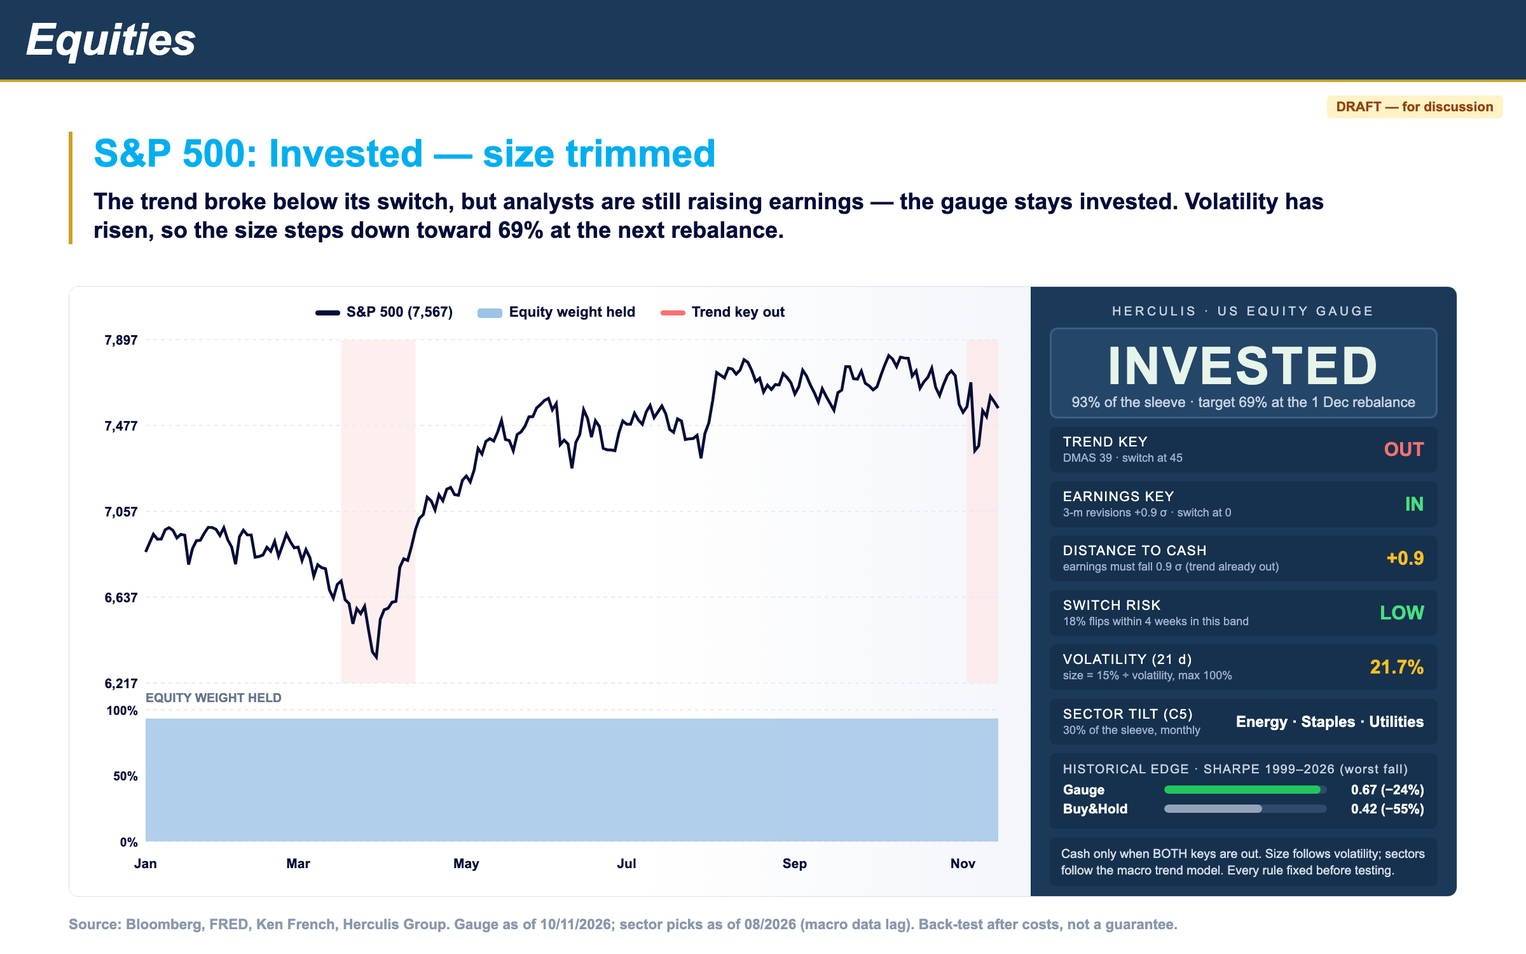
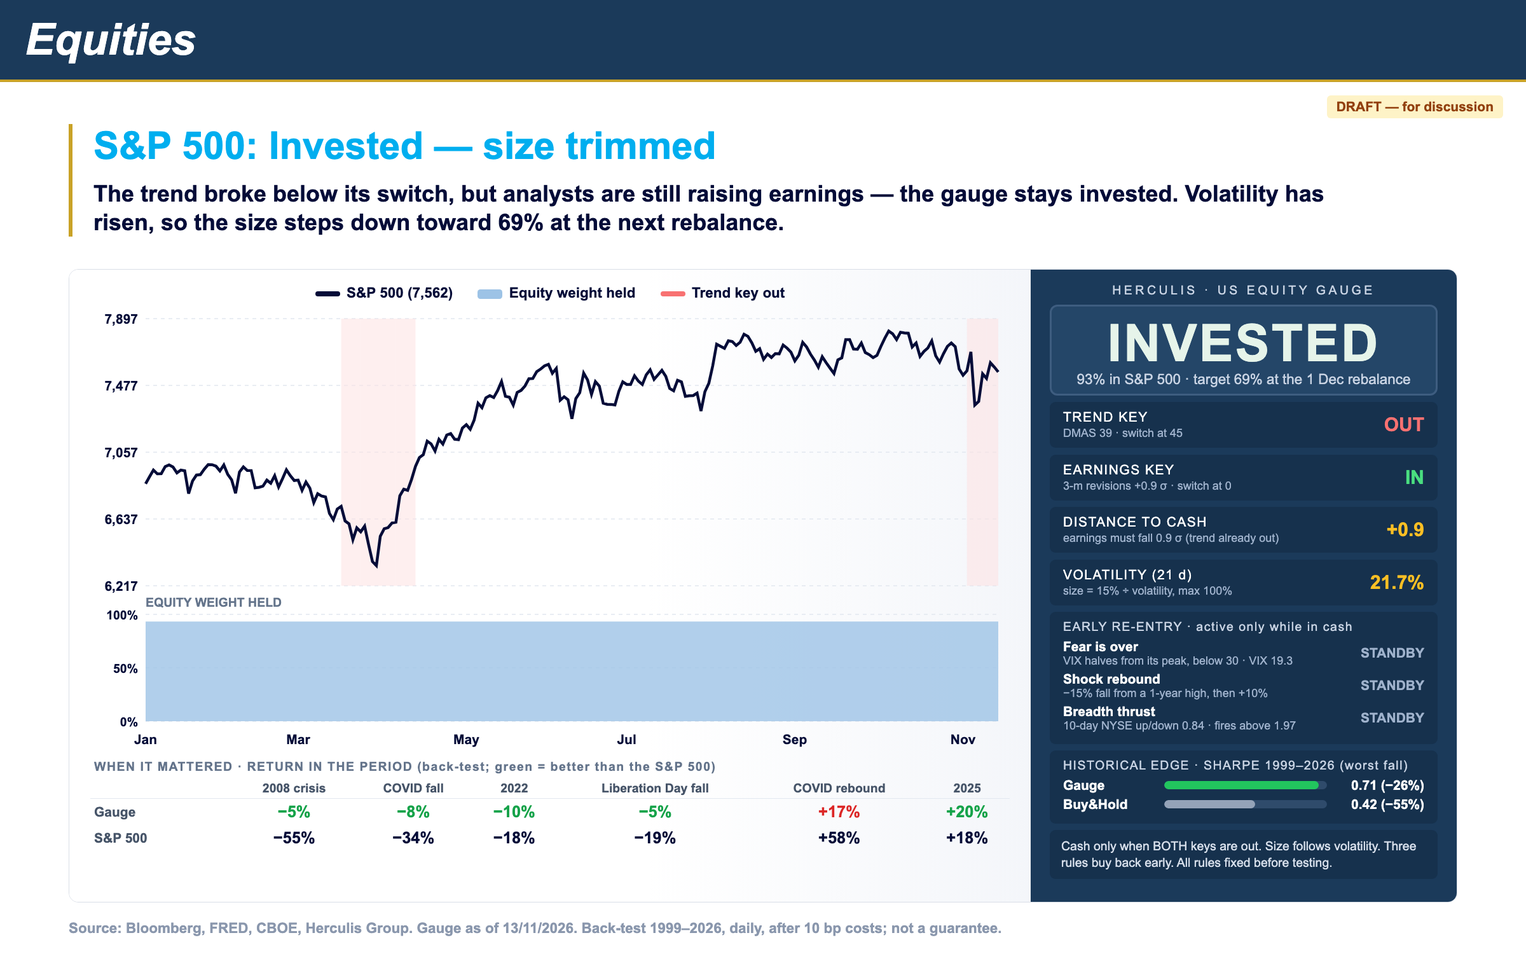
mockups: redraft gauge slide for the core (no sector tilt; F, S-live, B re-entry status; results when it mattered)

diff --git a/mockups/us_gauge_slide.html b/mockups/us_gauge_slide.html
@@ -1,18 +1,25 @@
 <!doctype html><html><head><meta charset="utf-8"><title>US Equity Gauge</title>
 <style>
-:root{--navy:#1B3A5A;--ink:#040C38;--sky:#00AEEF;--gold:#C9A227;--green:#16A34A;--red:#DC2626;--amber:#F59E0B;--grey:#94A3B8}
+:root{--navy:#1B3A5A;--ink:#040C38;--sky:#00AEEF;--gold:#C9A227;--green:#16A34A;--red:#DC2626}
 *{box-sizing:border-box;margin:0;padding:0}
 body{width:1600px;height:1000px;font-family:Calibri,'Segoe UI',Arial,sans-serif;background:#fff;color:var(--ink);position:relative;overflow:hidden}
 .top{height:86px;background:var(--navy);border-bottom:3px solid var(--gold);display:flex;align-items:center;padding-left:26px}
 .top h1{color:#fff;font-style:italic;font-size:46px;font-weight:700}
-.head{margin:52px 0 0 72px;border-left:4px solid var(--gold);padding-left:22px}
+.head{margin:44px 0 0 72px;border-left:4px solid var(--gold);padding-left:22px}
 .head h2{color:var(--sky);font-size:40px;font-weight:700}
 .head p{font-size:24px;font-weight:700;margin-top:12px;max-width:1300px;line-height:1.25}
-.card{position:absolute;left:72px;top:300px;width:1456px;height:640px;border:1px solid #D9DEE7;border-radius:10px;overflow:hidden;display:flex}
-.chart{flex:1;padding:18px 22px;background:linear-gradient(90deg,#fff 60%,#F4F6FA)}
-.legend{display:flex;gap:26px;justify-content:center;font-size:15px;font-weight:700;margin-bottom:6px}
+.card{position:absolute;left:72px;top:282px;width:1456px;height:664px;border:1px solid #D9DEE7;border-radius:10px;overflow:hidden;display:flex}
+.chart{flex:1;padding:16px 22px;background:linear-gradient(90deg,#fff 60%,#F4F6FA);display:flex;flex-direction:column}
+.legend{display:flex;gap:26px;justify-content:center;font-size:15px;font-weight:700;margin-bottom:4px}
 .legend i{display:inline-block;width:26px;height:5px;border-radius:3px;vertical-align:middle;margin-right:7px}
-.panel{width:470px;background:var(--navy);color:#fff;padding:18px 20px;display:flex;flex-direction:column;gap:9px}
+.mat{margin-top:6px}
+.mat .t{font-size:13px;font-weight:700;color:#64748B;letter-spacing:1px;margin:0 0 4px 4px}
+.mat table{width:100%;border-collapse:collapse;font-size:15px;font-weight:700}
+.mat th{font-size:13px;color:#475569;font-weight:700;padding:3px 4px;text-align:center;border-bottom:1px solid #E2E8F0}
+.mat td{text-align:center;padding:4px;font-size:17px}
+.mat td.l{text-align:left;font-size:14px;color:#475569;width:150px}
+.mat td.g{color:var(--green)}.mat td.r{color:var(--red)}
+.panel{width:470px;background:var(--navy);color:#fff;padding:14px 20px;display:flex;flex-direction:column;gap:7px}
 .ptitle{text-align:center;letter-spacing:3px;font-size:13px;color:#C8D3E3}
 .state{border:2px solid #3E5D80;border-radius:8px;background:#244668;text-align:center;padding:8px 0 6px}
 .state b{font-size:54px;letter-spacing:2px;color:#E6F4EA}
@@ -20,14 +27,16 @@ body{width:1600px;height:1000px;font-family:Calibri,'Segoe UI',Arial,sans-serif;
 .row{background:#16314D;border-radius:6px;padding:8px 14px;display:flex;justify-content:space-between;align-items:center;font-size:14px;letter-spacing:1px}
 .row .l small{display:block;letter-spacing:0;color:#9FB2CC;font-size:12px;margin-top:2px}
 .row .r{font-weight:700;font-size:20px;letter-spacing:0}
-.in{color:#4ADE80}.out{color:#F87171}.mid{color:#FBBF24}
-.edge{background:#16314D;border-radius:6px;padding:9px 14px;font-size:13px}
-.edge .t{letter-spacing:1px;color:#C8D3E3;margin-bottom:6px}
+.in{color:#4ADE80}.out{color:#F87171}.mid{color:#FBBF24}.sb{color:#9FB2CC}
+.box{background:#16314D;border-radius:6px;padding:8px 14px;font-size:13px}
+.box .t{letter-spacing:1px;color:#C8D3E3;margin-bottom:5px}
+.re{display:flex;justify-content:space-between;align-items:center;margin:4px 0;font-size:14px;font-weight:700}
+.re small{display:block;font-weight:400;color:#9FB2CC;font-size:12px}
 .bar{display:flex;align-items:center;gap:10px;margin:4px 0;font-weight:700;font-size:14px}
 .bar .n{width:96px}.bar .tr{flex:1;height:9px;background:#2F4B6B;border-radius:5px;overflow:hidden}
-.bar .f{height:100%;border-radius:5px}.bar .v{width:92px;text-align:right}
+.bar .f{height:100%;border-radius:5px;display:block}.bar .v{width:92px;text-align:right}
 .note{font-size:13px;color:#D6DEEA;line-height:1.35;background:#16314D;border-radius:6px;padding:8px 12px}
-.src{position:absolute;left:72px;bottom:22px;font-size:15px;color:#8A97AD;font-weight:700}
+.src{position:absolute;left:72px;bottom:18px;font-size:15px;color:#8A97AD;font-weight:700}
 .draft{position:absolute;right:24px;top:100px;background:#FEF3C7;color:#92400E;font-weight:700;font-size:14px;padding:4px 10px;border-radius:4px}
 svg text{font-family:Calibri,'Segoe UI',Arial,sans-serif}
 </style></head><body>
@@ -37,43 +46,45 @@ svg text{font-family:Calibri,'Segoe UI',Arial,sans-serif}
 <p>The trend broke below its switch, but analysts are still raising earnings — the gauge stays invested. Volatility has risen, so the size steps down toward 69% at the next rebalance.</p></div>
 <div class="card">
  <div class="chart">
-  <div class="legend"><span><i style="background:var(--ink)"></i>S&amp;P 500 (7,567)</span><span><i style="background:#9DC3E6;height:10px"></i>Equity weight held</span><span><i style="background:#F87171"></i>Trend key out</span></div>
-  <svg id="c" width="964" height="580"></svg>
+  <div class="legend"><span><i style="background:var(--ink)"></i>S&amp;P 500 (7,562)</span><span><i style="background:#9DC3E6;height:10px"></i>Equity weight held</span><span><i style="background:#F87171"></i>Trend key out</span></div>
+  <svg id="c" width="964" height="470"></svg>
+  <div class="mat"><div class="t">WHEN IT MATTERED · RETURN IN THE PERIOD (back-test; green = better than the S&amp;P 500)</div>
+   <table><tr><th></th><th>2008 crisis</th><th>COVID fall</th><th>2022</th><th>Liberation Day fall</th><th>COVID rebound</th><th>2025</th></tr><tr><td class="l">Gauge</td><td class="g">−5%</td><td class="g">−8%</td><td class="g">−10%</td><td class="g">−5%</td><td class="r">+17%</td><td class="g">+20%</td></tr><tr><td class="l">S&amp;P 500</td><td>−55%</td><td>−34%</td><td>−18%</td><td>−19%</td><td>+58%</td><td>+18%</td></tr></table></div>
  </div>
  <div class="panel">
   <div class="ptitle">HERCULIS · US EQUITY GAUGE</div>
-  <div class="state"><b>INVESTED</b><span>93% of the sleeve · target 69% at the 1 Dec rebalance</span></div>
+  <div class="state"><b>INVESTED</b><span>93% in S&amp;P 500 · target 69% at the 1 Dec rebalance</span></div>
   <div class="row"><div class="l">TREND KEY<small>DMAS 39 · switch at 45</small></div><div class="r out">OUT</div></div>
   <div class="row"><div class="l">EARNINGS KEY<small>3-m revisions +0.9 σ · switch at 0</small></div><div class="r in">IN</div></div>
   <div class="row"><div class="l">DISTANCE TO CASH<small>earnings must fall 0.9 σ (trend already out)</small></div><div class="r mid">+0.9</div></div>
-  <div class="row"><div class="l">SWITCH RISK<small>18% flips within 4 weeks in this band</small></div><div class="r in">LOW</div></div>
   <div class="row"><div class="l">VOLATILITY (21 d)<small>size = 15% ÷ volatility, max 100%</small></div><div class="r mid">21.7%</div></div>
-  <div class="row"><div class="l">SECTOR TILT (C5)<small>30% of the sleeve, monthly</small></div><div class="r" style="font-size:16px">Energy · Staples · Utilities</div></div>
-  <div class="edge"><div class="t">HISTORICAL EDGE · SHARPE 1999–2026 (worst fall)</div>
-   <div class="bar"><span class="n">Gauge</span><span class="tr"><span class="f" style="width:96%;background:#22C55E;display:block"></span></span><span class="v">0.67 (−24%)</span></div>
-   <div class="bar"><span class="n">Buy&amp;Hold</span><span class="tr"><span class="f" style="width:60%;background:#94A3B8;display:block"></span></span><span class="v">0.42 (−55%)</span></div>
+  <div class="box"><div class="t">EARLY RE-ENTRY · active only while in cash</div>
+   <div class="re"><div>Fear is over<small>VIX halves from its peak, below 30 · VIX 19.3</small></div><span class="sb">STANDBY</span></div>
+   <div class="re"><div>Shock rebound<small>−15% fall from a 1-year high, then +10%</small></div><span class="sb">STANDBY</span></div>
+   <div class="re"><div>Breadth thrust<small>10-day NYSE up/down 0.84 · fires above 1.97</small></div><span class="sb">STANDBY</span></div>
   </div>
-  <div class="note">Cash only when BOTH keys are out. Size follows volatility; sectors follow the macro trend model. Every rule fixed before testing.</div>
+  <div class="box"><div class="t">HISTORICAL EDGE · SHARPE 1999–2026 (worst fall)</div>
+   <div class="bar"><span class="n">Gauge</span><span class="tr"><span class="f" style="width:95%;background:#22C55E"></span></span><span class="v">0.71 (−26%)</span></div>
+   <div class="bar"><span class="n">Buy&amp;Hold</span><span class="tr"><span class="f" style="width:56%;background:#94A3B8"></span></span><span class="v">0.42 (−55%)</span></div>
+  </div>
+  <div class="note">Cash only when BOTH keys are out. Size follows volatility. Three rules buy back early. All rules fixed before testing.</div>
  </div>
 </div>
-<div class="src">Source: Bloomberg, FRED, Ken French, Herculis Group. Gauge as of 10/11/2026; sector picks as of 08/2026 (macro data lag). Back-test after costs, not a guarantee.</div>
+<div class="src">Source: Bloomberg, FRED, CBOE, Herculis Group. Gauge as of 13/11/2026. Back-test 1999–2026, daily, after 10 bp costs; not a guarantee.</div>
 <script>
 const D={"dates": ["2026-01-02", "2026-01-05", "2026-01-06", "2026-01-07", "2026-01-08", "2026-01-09", "2026-01-12", "2026-01-13", "2026-01-14", "2026-01-15", "2026-01-16", "2026-01-20", "2026-01-21", "2026-01-22", "2026-01-23", "2026-01-26", "2026-01-27", "2026-01-28", "2026-01-29", "2026-01-30", "2026-02-02", "2026-02-03", "2026-02-04", "2026-02-05", "2026-02-06", "2026-02-09", "2026-02-10", "2026-02-11", "2026-02-12", "2026-02-13", "2026-02-17", "2026-02-18", "2026-02-19", "2026-02-20", "2026-02-23", "2026-02-24", "2026-02-25", "2026-02-26", "2026-02-27", "2026-03-02", "2026-03-03", "2026-03-04", "2026-03-05", "2026-03-06", "2026-03-09", "2026-03-10", "2026-03-11", "2026-03-12", "2026-03-13", "2026-03-16", "2026-03-17", "2026-03-18", "2026-03-19", "2026-03-20", "2026-03-23", "2026-03-24", "2026-03-25", "2026-03-26", "2026-03-27", "2026-03-30", "2026-03-31", "2026-04-01", "2026-04-02", "2026-04-06", "2026-04-07", "2026-04-08", "2026-04-09", "2026-04-10", "2026-04-13", "2026-04-14", "2026-04-15", "2026-04-16", "2026-04-17", "2026-04-20", "2026-04-21", "2026-04-22", "2026-04-23", "2026-04-24", "2026-04-27", "2026-04-28", "2026-04-29", "2026-04-30", "2026-05-01", "2026-05-04", "2026-05-05", "2026-05-06", "2026-05-07", "2026-05-08", "2026-05-11", "2026-05-12", "2026-05-13", "2026-05-14", "2026-05-15", "2026-05-18", "2026-05-19", "2026-05-20", "2026-05-21", "2026-05-22", "2026-05-26", "2026-05-27", "2026-05-28", "2026-05-29", "2026-06-01", "2026-06-02", "2026-06-03", "2026-06-04", "2026-06-05", "2026-06-08", "2026-06-09", "2026-06-10", "2026-06-11", "2026-06-12", "2026-06-15", "2026-06-16", "2026-06-17", "2026-06-18", "2026-06-22", "2026-06-23", "2026-06-24", "2026-06-25", "2026-06-26", "2026-06-29", "2026-06-30", "2026-07-01", "2026-07-02", "2026-07-06", "2026-07-07", "2026-07-08", "2026-07-09", "2026-07-10", "2026-07-13", "2026-07-14", "2026-07-15", "2026-07-16", "2026-07-17", "2026-07-20", "2026-07-21", "2026-07-22", "2026-07-23", "2026-07-24", "2026-07-27", "2026-07-28", "2026-07-29", "2026-07-30", "2026-07-31", "2026-08-03", "2026-08-04", "2026-08-05", "2026-08-06", "2026-08-07", "2026-08-10", "2026-08-11", "2026-08-12", "2026-08-13", "2026-08-14", "2026-08-17", "2026-08-18", "2026-08-19", "2026-08-20", "2026-08-21", "2026-08-24", "2026-08-25", "2026-08-26", "2026-08-27", "2026-08-28", "2026-08-31", "2026-09-01", "2026-09-02", "2026-09-03", "2026-09-04", "2026-09-08", "2026-09-09", "2026-09-10", "2026-09-11", "2026-09-14", "2026-09-15", "2026-09-16", "2026-09-17", "2026-09-18", "2026-09-21", "2026-09-22", "2026-09-23", "2026-09-24", "2026-09-25", "2026-09-28", "2026-09-29", "2026-09-30", "2026-10-01", "2026-10-02", "2026-10-05", "2026-10-06", "2026-10-07", "2026-10-08", "2026-10-09", "2026-10-12", "2026-10-13", "2026-10-14", "2026-10-15", "2026-10-16", "2026-10-19", "2026-10-20", "2026-10-21", "2026-10-22", "2026-10-23", "2026-10-26", "2026-10-27", "2026-10-28", "2026-10-29", "2026-10-30", "2026-11-02", "2026-11-03", "2026-11-04", "2026-11-05", "2026-11-06", "2026-11-09", "2026-11-10", "2026-11-11", "2026-11-12", "2026-11-13"], "px": [6858.47, 6902.05, 6944.82, 6920.93, 6921.46, 6966.28, 6977.27, 6963.74, 6926.6, 6944.47, 6940.01, 6796.86, 6875.62, 6913.35, 6915.61, 6950.23, 6978.6, 6978.03, 6969.01, 6939.03, 6976.44, 6917.81, 6882.72, 6798.4, 6932.3, 6964.82, 6941.81, 6941.47, 6832.76, 6836.17, 6843.22, 6881.31, 6861.89, 6909.51, 6837.75, 6890.07, 6946.13, 6908.86, 6878.88, 6881.62, 6816.63, 6869.5, 6830.71, 6740.02, 6795.99, 6781.48, 6775.8, 6672.62, 6632.19, 6699.38, 6716.09, 6624.7, 6606.49, 6506.48, 6581.0, 6556.37, 6591.9, 6477.16, 6368.85, 6343.72, 6528.52, 6575.32, 6582.69, 6611.83, 6616.85, 6782.81, 6824.66, 6816.89, 6886.24, 6967.38, 7022.95, 7041.28, 7126.06, 7109.14, 7064.01, 7137.9, 7108.4, 7165.08, 7173.91, 7138.8, 7135.95, 7209.01, 7230.12, 7200.75, 7259.22, 7365.12, 7337.11, 7398.93, 7412.84, 7400.96, 7444.25, 7501.24, 7408.5, 7403.05, 7353.61, 7432.97, 7445.72, 7473.47, 7519.12, 7520.36, 7563.63, 7580.06, 7599.96, 7609.78, 7553.68, 7584.31, 7383.74, 7405.73, 7386.65, 7266.99, 7394.3, 7431.46, 7554.29, 7511.35, 7420.1, 7500.58, 7472.79, 7365.46, 7358.22, 7357.49, 7354.02, 7440.43, 7499.36, 7483.23, 7483.24, 7537.43, 7503.85, 7482.71, 7543.64, 7575.39, 7515.34, 7543.59, 7572.4, 7533.77, 7457.69, 7443.28, 7509.2, 7498.96, 7408.3, 7411.98, 7413.18, 7428.78, 7316.15, 7437.63, 7489.72, 7600.5, 7736.52, 7723.55, 7709.96, 7757.64, 7753.11, 7728.2, 7748.5, 7798.99, 7785.76, 7745.06, 7691.76, 7707.98, 7641.16, 7674.37, 7652.86, 7677.28, 7675.7, 7730.99, 7711.76, 7686.14, 7631.47, 7666.6, 7747.71, 7718.6, 7673.52, 7636.36, 7591.7, 7656.98, 7619.98, 7585.73, 7551.81, 7637.76, 7650.5, 7764.7, 7764.64, 7706.03, 7704.13, 7743.41, 7683.69, 7670.84, 7651.54, 7666.45, 7722.72, 7773.95, 7818.93, 7801.77, 7765.36, 7811.54, 7807.24, 7805.45, 7718.94, 7744.06, 7659.44, 7690.73, 7712.57, 7757.17, 7663.43, 7623.68, 7676.77, 7722.6, 7743.98, 7720.39, 7580.07, 7541.4, 7568.92, 7688.62, 7353.73, 7376.86, 7549.94, 7520.93, 7619.38, 7592.4, 7561.67], "w": [0.933, 0.933, 0.933, 0.933, 0.933, 0.933, 0.933, 0.933, 0.933, 0.933, 0.933, 0.933, 0.933, 0.933, 0.933, 0.933, 0.933, 0.933, 0.933, 0.933, 0.933, 0.933, 0.933, 0.933, 0.933, 0.933, 0.933, 0.933, 0.933, 0.933, 0.933, 0.933, 0.933, 0.933, 0.933, 0.933, 0.933, 0.933, 0.933, 0.933, 0.933, 0.933, 0.933, 0.933, 0.933, 0.933, 0.933, 0.933, 0.933, 0.933, 0.933, 0.933, 0.933, 0.933, 0.933, 0.933, 0.933, 0.933, 0.933, 0.933, 0.933, 0.933, 0.933, 0.933, 0.933, 0.933, 0.933, 0.933, 0.933, 0.933, 0.933, 0.933, 0.933, 0.933, 0.933, 0.933, 0.933, 0.933, 0.933, 0.933, 0.933, 0.933, 0.933, 0.933, 0.933, 0.933, 0.933, 0.933, 0.933, 0.933, 0.933, 0.933, 0.933, 0.933, 0.933, 0.933, 0.933, 0.933, 0.933, 0.933, 0.933, 0.933, 0.933, 0.933, 0.933, 0.933, 0.933, 0.933, 0.933, 0.933, 0.933, 0.933, 0.933, 0.933, 0.933, 0.933, 0.933, 0.933, 0.933, 0.933, 0.933, 0.933, 0.933, 0.933, 0.933, 0.933, 0.933, 0.933, 0.933, 0.933, 0.933, 0.933, 0.933, 0.933, 0.933, 0.933, 0.933, 0.933, 0.933, 0.933, 0.933, 0.933, 0.933, 0.933, 0.933, 0.933, 0.933, 0.933, 0.933, 0.933, 0.933, 0.933, 0.933, 0.933, 0.933, 0.933, 0.933, 0.933, 0.933, 0.933, 0.933, 0.933, 0.933, 0.933, 0.933, 0.933, 0.933, 0.933, 0.933, 0.933, 0.933, 0.933, 0.933, 0.933, 0.933, 0.933, 0.933, 0.933, 0.933, 0.933, 0.933, 0.933, 0.933, 0.933, 0.933, 0.933, 0.933, 0.933, 0.933, 0.933, 0.933, 0.933, 0.933, 0.933, 0.933, 0.933, 0.933, 0.933, 0.933, 0.933, 0.933, 0.933, 0.933, 0.933, 0.933, 0.933, 0.933, 0.933, 0.933, 0.933, 0.933, 0.933, 0.933, 0.933, 0.933, 0.933, 0.933, 0.933, 0.933], "dec": [{"d": "2026-01-06", "dmas": 76, "rev": 0.44, "cash": false}, {"d": "2026-01-13", "dmas": 76, "rev": 0.48, "cash": false}, {"d": "2026-01-20", "dmas": 61, "rev": 0.39, "cash": false}, {"d": "2026-01-27", "dmas": 69, "rev": 0.34, "cash": false}, {"d": "2026-02-03", "dmas": 64, "rev": 0.14, "cash": false}, {"d": "2026-02-10", "dmas": 65, "rev": -0.19, "cash": false}, {"d": "2026-02-17", "dmas": 57, "rev": -0.34, "cash": false}, {"d": "2026-02-24", "dmas": 61, "rev": -0.41, "cash": false}, {"d": "2026-03-03", "dmas": 53, "rev": 0.71, "cash": false}, {"d": "2026-03-10", "dmas": 49, "rev": 0.78, "cash": false}, {"d": "2026-03-17", "dmas": 41, "rev": 0.9, "cash": false}, {"d": "2026-03-24", "dmas": 25, "rev": 1.32, "cash": false}, {"d": "2026-03-31", "dmas": 24, "rev": 1.39, "cash": false}, {"d": "2026-04-07", "dmas": 33, "rev": 1.43, "cash": false}, {"d": "2026-04-14", "dmas": 74, "rev": 1.55, "cash": false}, {"d": "2026-04-21", "dmas": 79, "rev": 1.7, "cash": false}, {"d": "2026-04-28", "dmas": 77, "rev": 1.8, "cash": false}, {"d": "2026-05-05", "dmas": 79, "rev": 2.37, "cash": false}, {"d": "2026-05-12", "dmas": 84, "rev": 2.54, "cash": false}, {"d": "2026-05-19", "dmas": 77, "rev": 2.55, "cash": false}, {"d": "2026-05-26", "dmas": 90, "rev": 2.68, "cash": false}, {"d": "2026-06-02", "dmas": 88, "rev": 2.79, "cash": false}, {"d": "2026-06-09", "dmas": 74, "rev": 2.66, "cash": false}, {"d": "2026-06-16", "dmas": 79, "rev": 2.55, "cash": false}, {"d": "2026-06-23", "dmas": 72, "rev": 1.88, "cash": false}, {"d": "2026-06-30", "dmas": 73, "rev": 2.18, "cash": false}, {"d": "2026-07-07", "dmas": 72, "rev": 2.17, "cash": false}, {"d": "2026-07-14", "dmas": 70, "rev": 2.09, "cash": false}, {"d": "2026-07-21", "dmas": 66, "rev": 2.12, "cash": false}, {"d": "2026-07-28", "dmas": 60, "rev": 2.47, "cash": false}, {"d": "2026-08-04", "dmas": 80, "rev": 2.35, "cash": false}, {"d": "2026-08-11", "dmas": 75, "rev": 2.23, "cash": false}, {"d": "2026-08-18", "dmas": 72, "rev": 2.19, "cash": false}, {"d": "2026-08-25", "dmas": 69, "rev": 1.93, "cash": false}, {"d": "2026-09-01", "dmas": 66, "rev": 2.06, "cash": false}, {"d": "2026-09-08", "dmas": 67, "rev": 2.1, "cash": false}, {"d": "2026-09-15", "dmas": 62, "rev": 2.07, "cash": false}, {"d": "2026-09-22", "dmas": 74, "rev": 2.13, "cash": false}, {"d": "2026-09-29", "dmas": 68, "rev": 1.78, "cash": false}, {"d": "2026-10-06", "dmas": 74, "rev": 2.0, "cash": false}, {"d": "2026-10-13", "dmas": 68, "rev": 1.93, "cash": false}, {"d": "2026-10-20", "dmas": 59, "rev": 1.76, "cash": false}, {"d": "2026-10-27", "dmas": 58, "rev": 1.42, "cash": false}, {"d": "2026-11-03", "dmas": 44, "rev": 1.05, "cash": false}, {"d": "2026-11-10", "dmas": 39, "rev": 0.93, "cash": false}]};
-const svg=document.getElementById('c'),W=964,H=580,L=58,R=12,T=14,B=40,ph=360,wy=T+ph+28,wh=H-B-wy;
+const svg=document.getElementById('c'),W=964,H=470,L=58,R=12,T=14,B=34,ph=280,wy=T+ph+30,wh=H-B-wy;
 const n=D.dates.length,x=i=>L+i*(W-L-R)/(n-1);
 const lo=Math.min(...D.px)*0.98,hi=Math.max(...D.px)*1.01,y=v=>T+(hi-v)/(hi-lo)*ph;
 let s='';
 for(let k=0;k<=4;k++){const v=lo+(hi-lo)*k/4;s+=`<line x1="${L}" x2="${W-R}" y1="${y(v)}" y2="${y(v)}" stroke="#E2E8F0" stroke-dasharray="4 4"/><text x="${L-8}" y="${y(v)+5}" font-size="14" font-weight="700" text-anchor="end" fill="#040C38">${Math.round(v).toLocaleString('en-US')}</text>`}
-// trend-out shading on price panel
 const dec=D.dec;dec.forEach((r,j)=>{if(r.dmas<45){const i0=D.dates.indexOf(r.d),i1=j+1<dec.length?D.dates.indexOf(dec[j+1].d):n-1;if(i0>=0)s+=`<rect x="${x(i0)}" y="${T}" width="${Math.max(2,x(i1)-x(i0))}" height="${ph}" fill="#FEE2E2" opacity=".55"/>`}});
 s+=`<polyline fill="none" stroke="#040C38" stroke-width="3" points="${D.px.map((v,i)=>x(i)+','+y(v)).join(' ')}"/>`;
-// weight panel
 s+=`<text x="${L}" y="${wy-8}" font-size="13" fill="#64748B" font-weight="700">EQUITY WEIGHT HELD</text>`;
 const yw=v=>wy+(1-v)*wh;[0,0.5,1].forEach(v=>{s+=`<line x1="${L}" x2="${W-R}" y1="${yw(v)}" y2="${yw(v)}" stroke="#E2E8F0" stroke-dasharray="4 4"/><text x="${L-8}" y="${yw(v)+5}" font-size="13" text-anchor="end" font-weight="700" fill="#040C38">${v*100}%</text>`});
 let a=`${x(0)},${yw(0)} `;D.w.forEach((v,i)=>{if(v!==null)a+=`${x(i)},${yw(v)} `});a+=`${x(n-1)},${yw(0)}`;
 s+=`<polygon points="${a}" fill="#9DC3E6" opacity=".8"/>`;
-// x labels
 const months={};D.dates.forEach((d,i)=>{const m=d.slice(0,7);if(!(m in months))months[m]=i});
-Object.entries(months).forEach(([m,i],k)=>{if(k%2==0)s+=`<text x="${x(i)}" y="${H-12}" font-size="14" font-weight="700" text-anchor="middle" fill="#040C38">${new Date(m+'-15').toLocaleString('en-US',{month:'short'})}</text>`});
+Object.entries(months).forEach(([m,i],k)=>{if(k%2==0)s+=`<text x="${x(i)}" y="${H-10}" font-size="14" font-weight="700" text-anchor="middle" fill="#040C38">${new Date(m+'-15').toLocaleString('en-US',{month:'short'})}</text>`});
 svg.innerHTML=s;
 </script></body></html>

diff --git a/research/us_gauge/core_slide_data.py b/research/us_gauge/core_slide_data.py
@@ -1,0 +1,81 @@
+"""Data for the core slide (spec section 11): core = 100% S&P 500 x max(V2, F floor, S-live, B).
+
+Writes mockups/core_slide_data.json: 2026 daily price and weight, Tuesday decisions, current state of every
+layer, and back-test stats of the core vs buy and hold by period (1999-02 → last day, daily, 10 bp).
+"""
+import json
+from pathlib import Path
+import numpy as np
+import pandas as pd
+from research.us_gauge import run_vol
+from research.us_gauge.data import load_inputs
+from research.us_gauge.run_s1 import read_only_external
+from research.us_gauge.run_step1 import build_signals
+from research.us_gauge.run_p import episodes as f_episodes
+from research.us_gauge.run_c import floor_weights
+from research.us_gauge.run_fast import states, to_weights, v2_from_states
+from research.us_gauge.run_s import shock_episodes
+from research.us_gauge.run_b import breadth, deemer_ratio, thrust_days, thrust_episodes
+from research.us_gauge.trading import net_returns
+from research.us_gauge.stress_periods import stats
+from research.us_gauge.combo_f import WINDOWS
+
+ROOT = Path(__file__).resolve().parents[2]
+
+
+def layer(index, ep, live):
+    s = pd.Series(0., index=index)
+    for r in ep.itertuples():
+        a, b = r.i_entry + 2, min(r.i_end + 2, len(index))
+        s.iloc[a:b] = live.iloc[a:b].to_numpy()
+    return s
+
+
+def main():
+    with read_only_external():
+        inputs = load_inputs()
+    br = breadth()
+    idx = inputs.index
+    gf = build_signals(inputs)
+    s1 = states(gf.loc['1993-04-01':].index, gf.cash_R1, gf.deep, gf.dmas, None)
+    w1, w2 = to_weights(idx, s1), v2_from_states(inputs, s1).reindex(idx)
+    v = run_vol.target_weight(inputs.eq_ret)
+    live = v.shift(2)
+    epf = f_episodes(idx, s1, inputs.vix, inputs.vix, inputs.px, .5, 30.)
+    wf = floor_weights(idx, list(zip(epf.i_entry, epf.i_end)), .5)
+    eps = shock_episodes(inputs.px, w1)
+    ws = layer(idx, eps, live)
+    ratio = deemer_ratio(br.adv, br.dec)
+    epb = thrust_episodes(inputs.px, w1, thrust_days(ratio))
+    wb = layer(idx, epb, live)
+    core = pd.concat([w2, wf, ws, wb], axis=1).max(axis=1).where(w2.notna())
+    r = net_returns(core, inputs.eq_ret, inputs.cash_ret).loc['1999-02-01':]
+    bh = inputs.eq_ret.loc[r.index]
+    cash = inputs.cash_ret.reindex(r.index)
+    per = []
+    for name, a, b in WINDOWS:
+        tc, sc, dc = stats(r.loc[a:b], cash)
+        tb, sb, db = stats(bh.loc[a:b], cash)
+        per.append(dict(window=name, core_total=tc, core_sharpe=sc, core_dd=dc, bh_total=tb, bh_sharpe=sb, bh_dd=db))
+    y = idx[idx >= '2026-01-01']
+    last = idx[-1]
+    dec = gf.loc['2026-01-01':]
+    sig = inputs.eq_ret.rolling(21).std().iloc[-1] * np.sqrt(252)
+    out = dict(
+        asof=str(last.date()), breadth_asof=str(br.index[-1].date()),
+        dates=[str(d.date()) for d in y], px=[round(float(p), 2) for p in inputs.px.loc[y]],
+        w=[None if pd.isna(x) else round(float(x), 3) for x in core.loc[y]],
+        dec=[dict(d=str(d.date()), dmas=int(round(rw.dmas)), rev=round(float(rw.rev_z), 2), cash=bool(rw.cash_R1)) for d, rw in dec.iterrows()],
+        now=dict(weight=float(core.iloc[-1]), v2=float(w2.iloc[-1]), target=float(v.iloc[-1]), sigma21=float(sig),
+                 dmas=float(gf.dmas.iloc[-1]), rev_z=float(gf.rev_z.iloc[-1]), r1_cash=bool(gf.cash_R1.iloc[-1]),
+                 vix=float(inputs.vix.iloc[-1]), breadth_ratio=float(ratio.iloc[-1]),
+                 f_on=bool(wf.iloc[-1] > 0), s_on=bool(ws.iloc[-1] > 0), b_on=bool(wb.iloc[-1] > 0)),
+        periods=per)
+    (ROOT / 'mockups/core_slide_data.json').write_text(json.dumps(out))
+    print(json.dumps(out['now'], indent=1), out['asof'], out['breadth_asof'])
+    for p in per:
+        print(f"{p['window']:42s} core {p['core_total']:+7.1%} {p['core_sharpe']:5.2f} {p['core_dd']:6.1%} | BH {p['bh_total']:+7.1%} {p['bh_sharpe']:5.2f} {p['bh_dd']:6.1%}")
+
+
+if __name__ == '__main__':
+    main()
